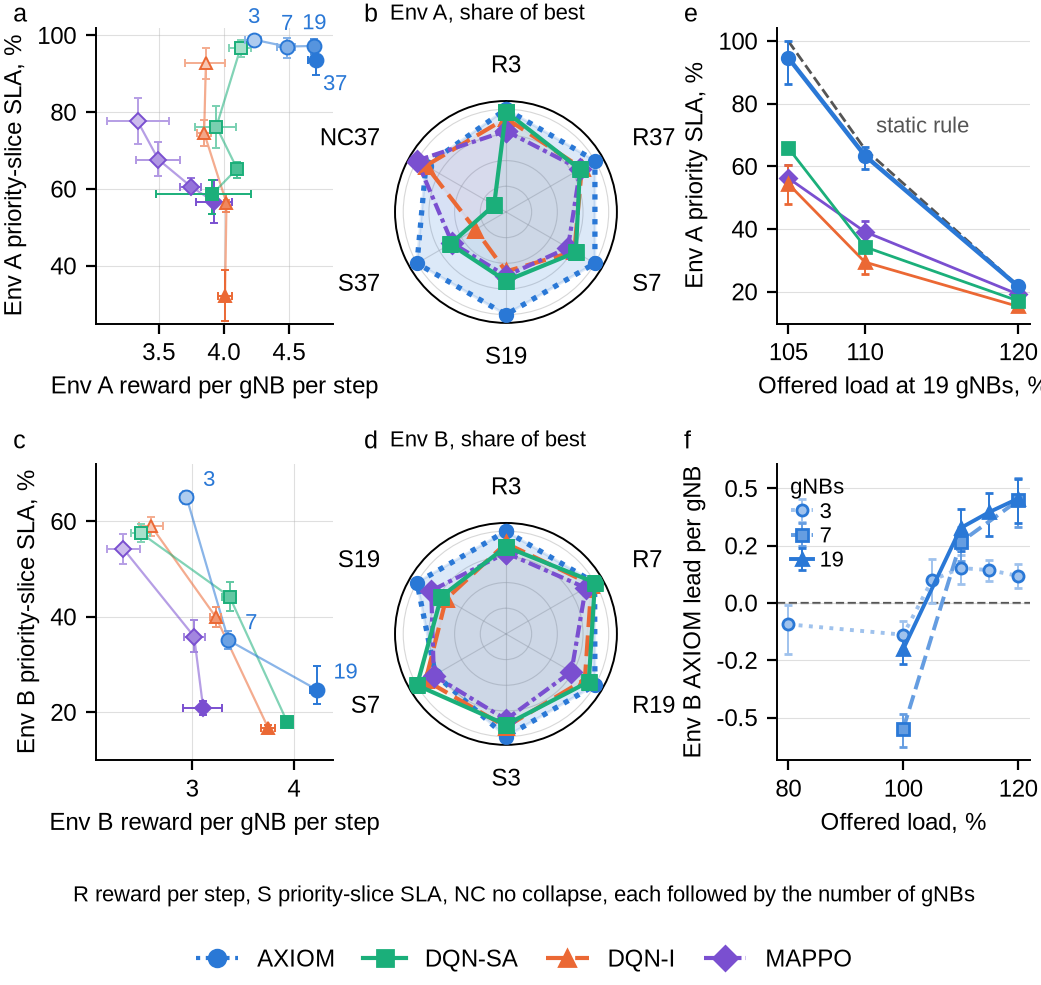
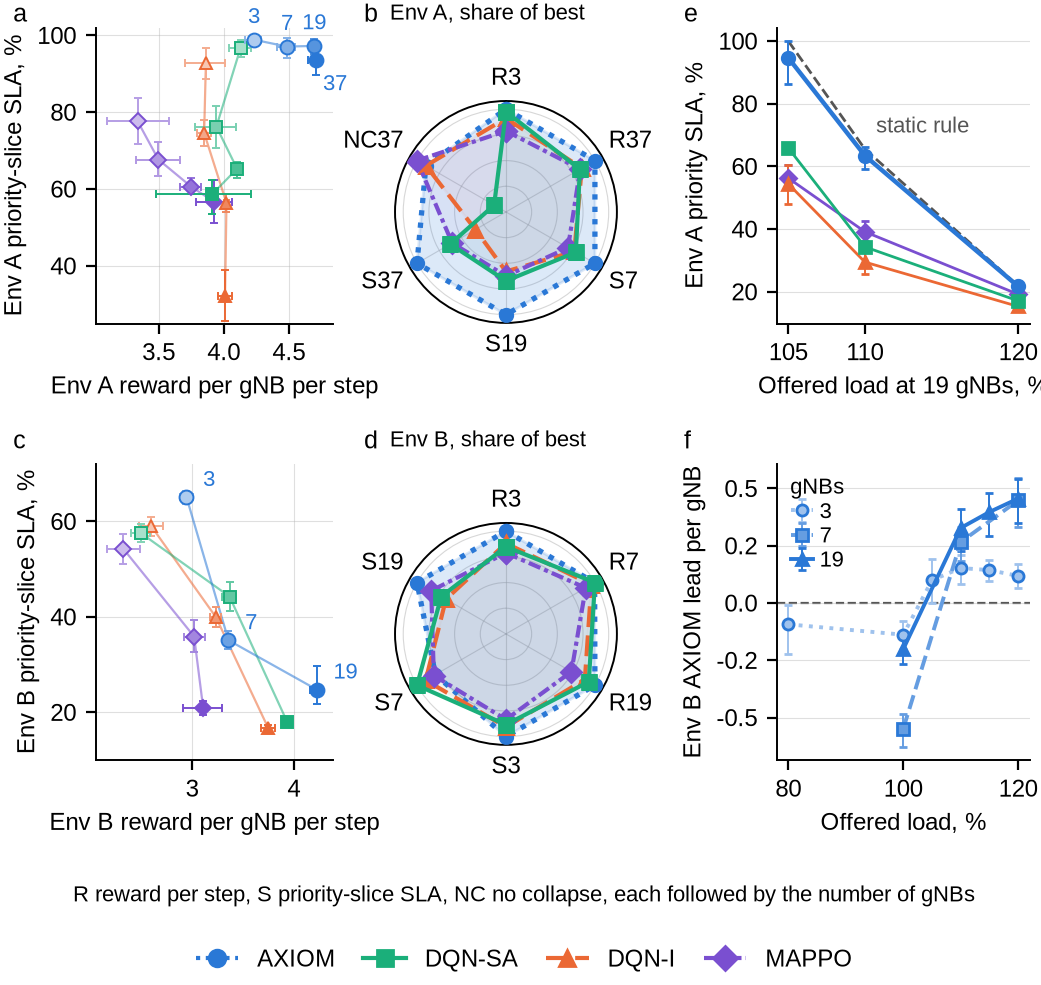
Fig. 7: radar axis labels placed just outside the outer ring
Labels are drawn by hand at the ring's edge, anchored on the side facing
the centre, with top and bottom labels nudged clear of markers on the
ring. Plotted data unchanged (summary JSON identical).

diff --git a/experiments/plots/paper5_fig_superiority.py b/experiments/plots/paper5_fig_superiority.py
@@ -213,14 +213,16 @@ def draw_radar(ax, data, env):
     ax.set_theta_offset(np.pi / 2)
     ax.set_theta_direction(-1)
     ax.set_xticks(ang[:-1])
-    ax.set_xticklabels(labels, fontsize=8.5)
+    ax.set_xticklabels([])
     ax.set_ylim(0, 1.08)
     ax.set_yticks([0.25, 0.5, 0.75, 1.0])
     ax.set_yticklabels([])
-    ax.tick_params(axis="x", pad=2)
-    for lab_, a_ in zip(ax.get_xticklabels(), ang[:-1]):
-        s_ = np.sin(a_)
-        lab_.set_horizontalalignment("left" if s_ > 0.1 else "right" if s_ < -0.1 else "center")
+    # axis codes sit just outside the outer ring, anchored on the side facing the centre
+    for lab_, a_ in zip(labels, ang[:-1]):
+        s_, c_ = np.sin(a_), np.cos(a_)
+        ax.text(a_, 1.12 + 0.07 * abs(c_), lab_, fontsize=8.5, clip_on=False,
+                ha="left" if s_ > 0.1 else "right" if s_ < -0.1 else "center",
+                va="bottom" if c_ > 0.1 else "top" if c_ < -0.1 else "center")
     ax.grid(linewidth=0.4, alpha=0.5)
     zbase = {"AXIOM": 4, "DQN-I": 5, "DQN-SA": 6, "MAPPO": 5}
     LS = {"AXIOM": (0, (1, 1.35)), "DQN-I": (0, (5, 2)), "DQN-SA": "-", "MAPPO": (0, (3, 1, 1, 1))}
